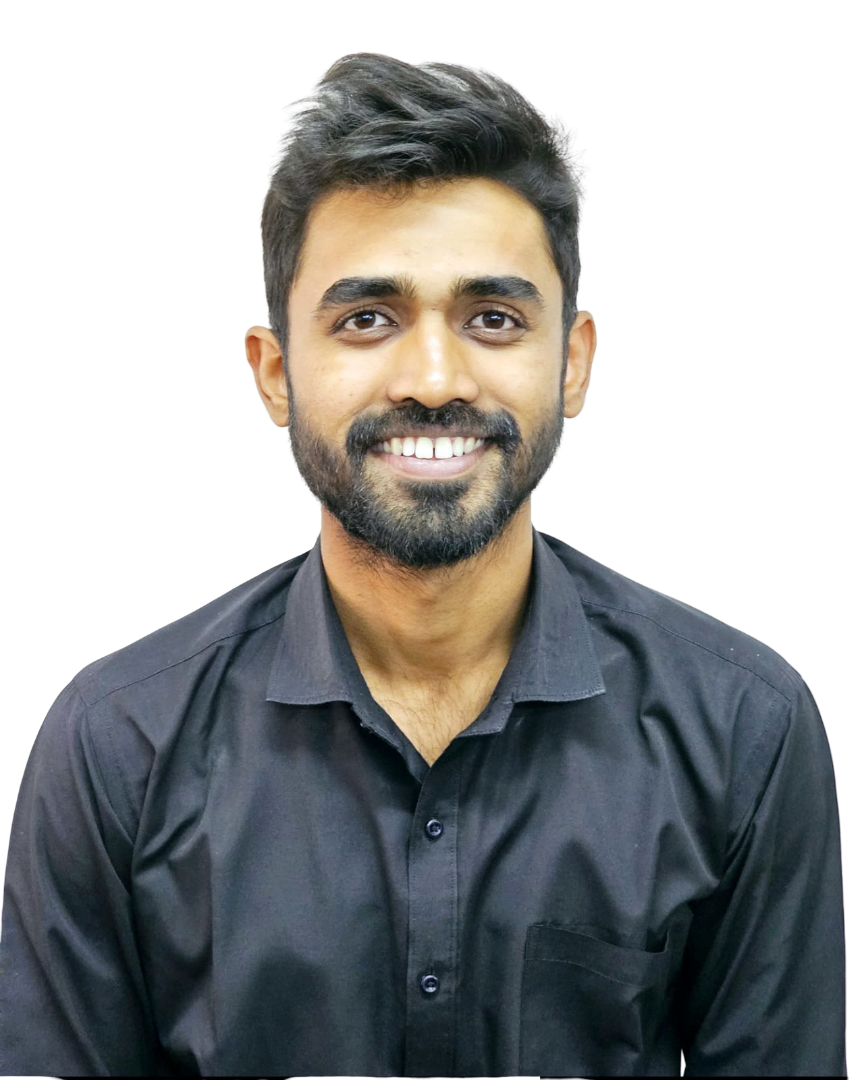
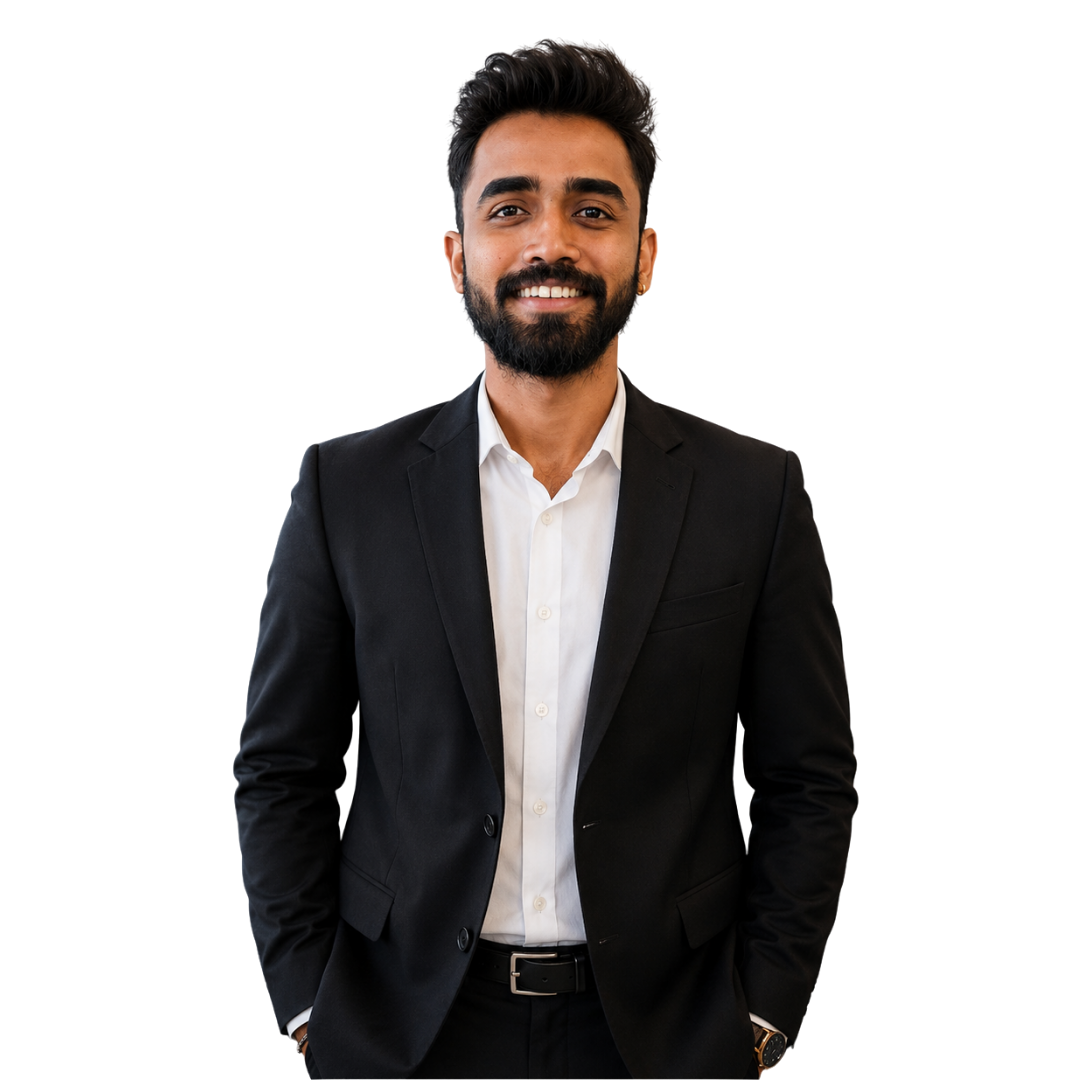
website design with new changes

diff --git a/src/MainHome.jsx b/src/MainHome.jsx
@@ -13,11 +13,14 @@ import InstagramIcon from "@mui/icons-material/Instagram";
 import GitHubIcon from '@mui/icons-material/GitHub';
 import { HoverEffect } from './components/CardHoverEffect';
 import react from '../src/assets/react.svg';
+import next from '../src/assets/next.svg';
 import ts from '../src/assets/typescript.svg';
 import html from '../src/assets/html.svg';
 import css from '../src/assets/css.svg';
 import github from '../src/assets/github.svg';
 import mysql from '../src/assets/mysql.svg';
+import mongodb from '../src/assets/mongodb.svg';
+import firebase from '../src/assets/firebase.svg';
 import laravel from '../src/assets/laravel.svg';
 import inertia from '../src/assets/inertia.svg';
 import python from '../src/assets/python.svg';
@@ -29,7 +32,7 @@ import { Pointer } from './components/Pointer';
 function MainHome() {
   const words = [
     {
-      text: "Web",
+      text: "Full Stack",
       className: "text-blue-500",
     },
     {
@@ -39,15 +42,20 @@ function MainHome() {
   ];
 
   const languages = [
-    "Web Developer",
     "React JS",
+    "Next JS",
     "React Native",
     "Python",
     "Laravel",
     "Javascript",
     "Typescript",
-    "Inertia Js",
-    "MySQL"
+    "Inertia JS",
+    "MySQL",
+    "MongoDB",
+    "Firebase",
+    "Tailwind CSS",
+    "Shopify",
+    "Wordpress"
   ];
 
   const links = [
@@ -78,15 +86,19 @@ function MainHome() {
 
   const skills = [
   {
-    title: "React Js",
+    title: "React JS",
     image: react,
+  },
+  {
+    title: "Next JS",
+    image: next,
   },
   {
     title: "React Native",
     image: react,
   },
   {
-    title: "Inertia Js",
+    title: "Inertia JS",
     image: inertia,
   },
   {
@@ -104,6 +116,14 @@ function MainHome() {
   {
     title: "MySQL",
     image: mysql,
+  },
+  {
+    title: "MongoDB",
+    image: mongodb,
+  },
+  {
+    title: "Firebase",
+    image: firebase,
   },
   {
     title: "HTML",
@@ -143,7 +163,7 @@ function MainHome() {
   ];
   return (
     <>
-      <Pointer className="fill-blue-500"/>
+      <Pointer className="fill-[#2b7efe]"/>
       <Header/>
         <div className='bg-[#030726]'>
           <div className="relative flex w-full flex-col items-center justify-center h-[100vh]">
@@ -159,12 +179,12 @@ function MainHome() {
             <div className="pointer-events-none absolute inset-y-0 left-0 w-1/4 bg-gradient-to-r from-background"></div>
             <div className="pointer-events-none absolute inset-y-0 right-0 w-1/4 bg-gradient-to-l from-background"></div>
           </div>
-          <section className="flex flex-col lg:flex-row md:flex-row w-full items-center justify-between" id='about_me'>
+          <section className="flex flex-col lg:flex-row md:flex-row w-full items-center justify-between h-screen" id='about_me'>
             <div className='w-[100%] lg:w-[50%]'>
               <div className='px-6 lg:px-14'>
                 <FloatingDock mobileClassName="translate-y-20" items={links}/>
-                <h1 className='text-3xl text-left text-white'>Hi, I'm <span className='text-blue-500'>Shankar Manjrekar</span> and I am a passionate <TypewriterEffectSmooth words={words}/></h1>
-                <p className='text-[14px] lg:text-xl text-justify text-white'>As a Web Developer with 2+ years of experience in building dynamic, responsive, and high-performance applications using Inertia.js, React.js, and Laravel. Proficient in creating scalable front-end interfaces, implementing modern UI/UX with Tailwind CSS and Bootstrap, and developing robust backend functionality with seamless API integration. Skilled in performance optimization, clean code practices, and delivering reliable full-stack solutions that align with business goals and enhance user experience.</p>
+                <h1 className='text-3xl text-left text-white'>Hi, I'm <span className='text-[#2b7efe]'>Shankar Manjrekar</span> and I am a passionate <TypewriterEffectSmooth words={words}/></h1>
+                <p className='text-[14px] lg:text-xl text-left text-white'>As a Fullstack Developer with 3+ years of experience in building dynamic, responsive, and high-performance applications using Inertia.js, React.js, and Laravel. Proficient in creating scalable front-end interfaces, implementing modern UI/UX with Tailwind CSS and Bootstrap, and developing robust backend functionality with seamless API integration. Skilled in performance optimization, clean code practices, and delivering reliable full-stack solutions that align with business goals and enhance user experience.</p>
                 <div className="flex gap-4 mt-2 lg:mt-6">
                   <Link to={"contact"} smooth={true}><ShimmerButton>Hire</ShimmerButton></Link>
                   <a href={ResumePdf} download><ShimmerButton>Download Resume</ShimmerButton></a>
@@ -172,8 +192,11 @@ function MainHome() {
               </div>
             </div>
             <div className='w-[100%] lg:w-[50%]'>
-              <div className="flex justify-center grayscale-90">
-                <img src={Shankar} alt="shankar_manjrekar" className='h-110 lg:h-160 md:h-150'/>
+              <div className="flex justify-center">
+                <div className='h-140 w-90 absolute bg-[#2b7efe]/50 rounded-3xl shadow-4xl blur-3xl'></div>
+                <div className='relative'>
+                  <img src={Shankar} alt="shankar_manjrekar" className='h-110 lg:h-180 md:h-120'/>
+                </div>
               </div>
             </div>
           </section>
@@ -182,13 +205,13 @@ function MainHome() {
             <HoverEffect items={skills} />
           </section>
           <section className='py-30 px-6 lg:px-14' id='experience'>
-            <h2 className='text-4xl text-left text-white leading-none inline-block font-semibold'>Experience</h2>
+            <h3 className='text-4xl text-left text-white leading-none inline-block font-semibold'>Experience</h3>
             <div className="relative w-full overflow-clip">
               <Timeline data={experience} />
             </div>
           </section>
           <section className='py-30 px-6 lg:px-14' id='contact'>
-            <h3 className='text-4xl text-left text-white leading-none inline-block font-semibold'>Contact Me</h3>
+            <h4 className='text-4xl text-left text-white leading-none inline-block font-semibold'>Contact Me</h4>
             <ContactForm/>
           </section>
         </div>

diff --git a/src/components/Timeline.jsx b/src/components/Timeline.jsx
@@ -28,24 +28,16 @@ export const Timeline = ({
       <div ref={ref} className="relative max-w-7xl mx-auto pb-20">
         {data.map((item, index) => (
           <div key={index} className="flex justify-start pt-10 md:pt-40 md:gap-10">
-            <div
-              className="sticky flex flex-col md:flex-row z-40 items-center top-40 self-start max-w-xs lg:max-w-sm md:w-full">
-              <div
-                className="h-10 absolute left-3 md:left-3 w-10 rounded-full bg-white dark:bg-black flex items-center justify-center">
-                <div
-                  className="h-4 w-4 rounded-full bg-neutral-200 dark:bg-neutral-800 border border-neutral-300 dark:border-neutral-700 p-2" />
+            <div className="sticky flex flex-col md:flex-row z-40 items-center top-40 self-start max-w-xs lg:max-w-sm md:w-full">
+              <div className="h-10 absolute left-3 md:left-3 w-10 rounded-full bg-white dark:bg-black flex items-center justify-center">
+                <div className="h-4 w-4 rounded-full bg-neutral-200 dark:bg-neutral-800 border border-neutral-300 dark:border-neutral-700 p-2" />
               </div>
-              <h3
-                className="hidden md:block text-md md:pl-20 md:text-xl font-bold text-neutral-500 ">
-                {item.year}
-              </h3>
+              <h3 className="hidden md:block text-md md:pl-20 md:text-xl font-bold text-white">{item.year}</h3>
             </div>
 
             <div className="relative pl-20 pr-4 md:pl-4 w-full">
-              <h3 className="block text-xl mb-4 text-left font-bold text-neutral-500">
-                {item.title}
-              </h3>
-              <p className="text-xs lg:text-lg md:text-lg text-neutral-500 text-justify">{item.content}</p>
+              <h3 className="block text-xl mb-4 text-left font-bold text-[#2b7efe]">{item.title}</h3>
+              <p className="text-xs lg:text-lg md:text-lg text-white text-justify">{item.content}</p>
             </div>
           </div>
         ))}

diff --git a/src/components/ContactForm.jsx b/src/components/ContactForm.jsx
@@ -68,22 +68,22 @@ export default function ContactForm () {
                         <form ref={formRef} onSubmit={sendEmail}>
                             <div className="mb-3 w-[100%]">
                                 <label for="name" className="block mb-2 lg:text-md md:text-md sm:text-sm font-medium text-left text-white">Full Name</label>
-                                <input type="text" name="name" className="shadow-xs bg-gray-200 border border-white text-gray-900 lg:text-lg md:text-md sm:text-sm rounded-3xl focus:ring-blue-500 focus:border-blue-500 block w-full p-2.5 shadow-xl" required />
+                                <input type="text" name="name" className="shadow-xs bg-gray-200 border border-white text-gray-900 lg:text-lg md:text-md sm:text-sm rounded-3xl focus:ring-[#2b7efe] focus:border-[#2b7efe] block w-full p-2.5" required />
                             </div>
                             <div className="mb-3 w-[100%]">
                                 <label for="email" className="block mb-2 lg:text-md md:text-md sm:text-sm font-medium text-left text-white">Email Address</label>
-                                <input type="email" name="email" className="shadow-xs bg-gray-200 border border-white text-gray-900 lg:text-lg md:text-md sm:text-sm rounded-3xl focus:ring-blue-500 focus:border-blue-500 block w-full p-2.5 shadow-xl" required />
+                                <input type="email" name="email" className="shadow-xs bg-gray-200 border border-white text-gray-900 lg:text-lg md:text-md sm:text-sm rounded-3xl focus:ring-[#2b7efe] focus:border-[#2b7efe] block w-full p-2.5" required />
                             </div>
                             <div className="mb-5">
                                 <label for="message" className="block mb-2 lg:text-md md:text-md sm:text-sm font-medium text-left text-white">Your message</label>
-                                <textarea name="message" rows="4" className="shadow-xs bg-gray-200 border border-white text-gray-900 lg:text-lg md:text-md sm:text-sm rounded-3xl focus:ring-blue-500 focus:border-blue-500 block w-full p-2.5 shadow-xl" placeholder="Write your message here..."></textarea>
+                                <textarea name="message" rows="4" className="shadow-xs bg-gray-200 border border-white text-gray-900 lg:text-lg md:text-md sm:text-sm rounded-3xl focus:ring-[#2b7efe] focus:border-[#2b7efe] block w-full p-2.5" placeholder="Write your message here..."></textarea>
                             </div>
                             <ShimmerButton type="submit" className="w-full" disabled={btnLoading}>{btnLoading ? <><CircularProgress size={20} color="inherit" /> Sending...</> : "Send Message"}</ShimmerButton>
                         </form>
                     </div>
                     <div className="w-[100%] lg:w-[50%]">
-                        <div className="rounded-4xl border-1 border-blue-500 p-1">
-                            <div className="bg-blue-500 lg:h-100 md:h-80 py-4 px-2 lg:p-4 md:p-4 flex lg:justify-evenly gap-6 md:gap-4 flex-col items-start rounded-4xl">
+                        <div className="rounded-4xl border-1 border-[#2b7efe] p-1">
+                            <div className="bg-[#2b7efe] lg:h-100 md:h-80 py-4 px-2 lg:p-4 md:p-4 flex lg:justify-evenly gap-6 md:gap-4 flex-col items-start rounded-[28px]">
                                 <div className="flex items-start gap-2 lg:gap-6 lg:w-80">
                                     <div>
                                         <div className="bg-[#030726] rounded-full w-10 h-10 lg:w-12 md:w-10 lg:h-12 md:h-10 flex items-center justify-center text-white">

diff --git a/src/components/Navbar.jsx b/src/components/Navbar.jsx
@@ -103,7 +103,7 @@ export const NavItems = ({
               layoutId="hovered"
               className="absolute inset-0 h-full w-full rounded-full bg-indigo-100" />
           )}
-          <span className="relative z-20 text-lg transition duration-200 text-[#426EEF]">
+          <span className="relative z-20 text-lg transition duration-200 text-[#2b7efe]">
             {item.name}
           </span>
         </Link>
@@ -187,11 +187,11 @@ export const MobileNavToggle = ({
 }) => {
   return isOpen ? (
     <div className="p-4">
-      <CloseIcon className="text-[#426EEF]" onClick={onClick} />
+      <CloseIcon className="text-[#2b7efe]" onClick={onClick} />
     </div>
   ) : (
     <div className="p-4">
-      <MenuIcon className="text-[#426EEF]" onClick={onClick} />
+      <MenuIcon className="text-[#2b7efe]" onClick={onClick} />
     </div>
   );
 };

diff --git a/src/components/ShimmerButton.jsx b/src/components/ShimmerButton.jsx
@@ -7,7 +7,7 @@ export const ShimmerButton = forwardRef((props, ref) => {
     shimmerSize = "0.05em",
     shimmerDuration = "3s",
     borderRadius = "100px",
-    background = "rgba(0, 0, 0, 1)",
+    background = "#2b7efe",
     className,
     children,
     ...rest